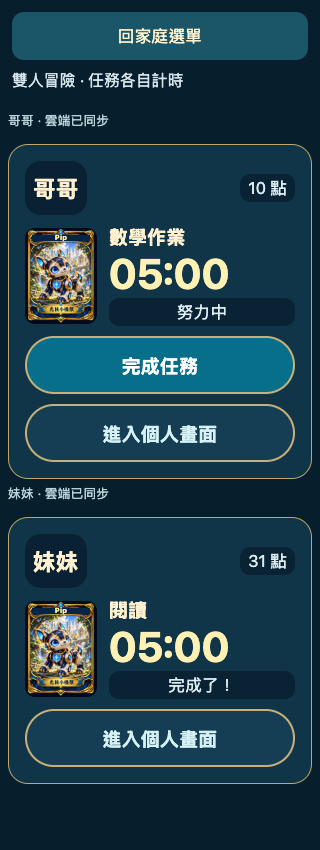
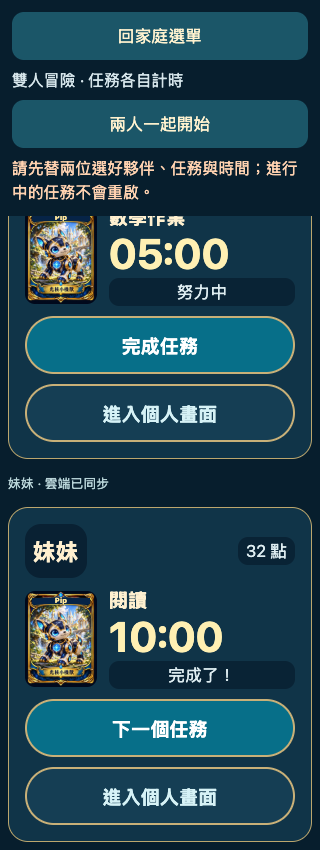
test(family): verify simplified hosted preview [actor:bot approval:23167]

diff --git a/reports/family-v2/STATUS.md b/reports/family-v2/STATUS.md
@@ -46,3 +46,5 @@ Two name fields; age optional (unknown stored as NULL, existing age retained). D
 Duo inline task/minute inputs; shared start timestamp with independent deadlines and completion; per-child start and next task remain. No live cross-device subscription: switching devices reads last acknowledged cloud save, stale writes are rejected.
 Typecheck/export PASS; 320/390/900 browser mock-cloud PASS: rename preserves state, 5/10-minute shared start, repeat start guard, independent rewards, expand/back, reload, V1 sentinel, overflow/errors. Repository5/5 PASS. Rolled-back DB fixtures PASS NULL age/events, 2-child cap, rename.
 Supabase URL configuration saved and reload verified earlier this evening. Email delivery to outside team recipients still requires SMTP. This update is awaiting deployment at this checkpoint.
+
+Simplification deployed live source76fe313, hosted bundle8410ecf9b37274f7ca6b2240bb57d036 matches local. Hosted-assets + mocked-cloud browser320/390/900 PASS including rename and unequal-duration shared start. No real user progress used by tests. Initial root CDN briefly served old HTML; cache-busted URL verified current. Fixed legacy pair still pending user choice.
